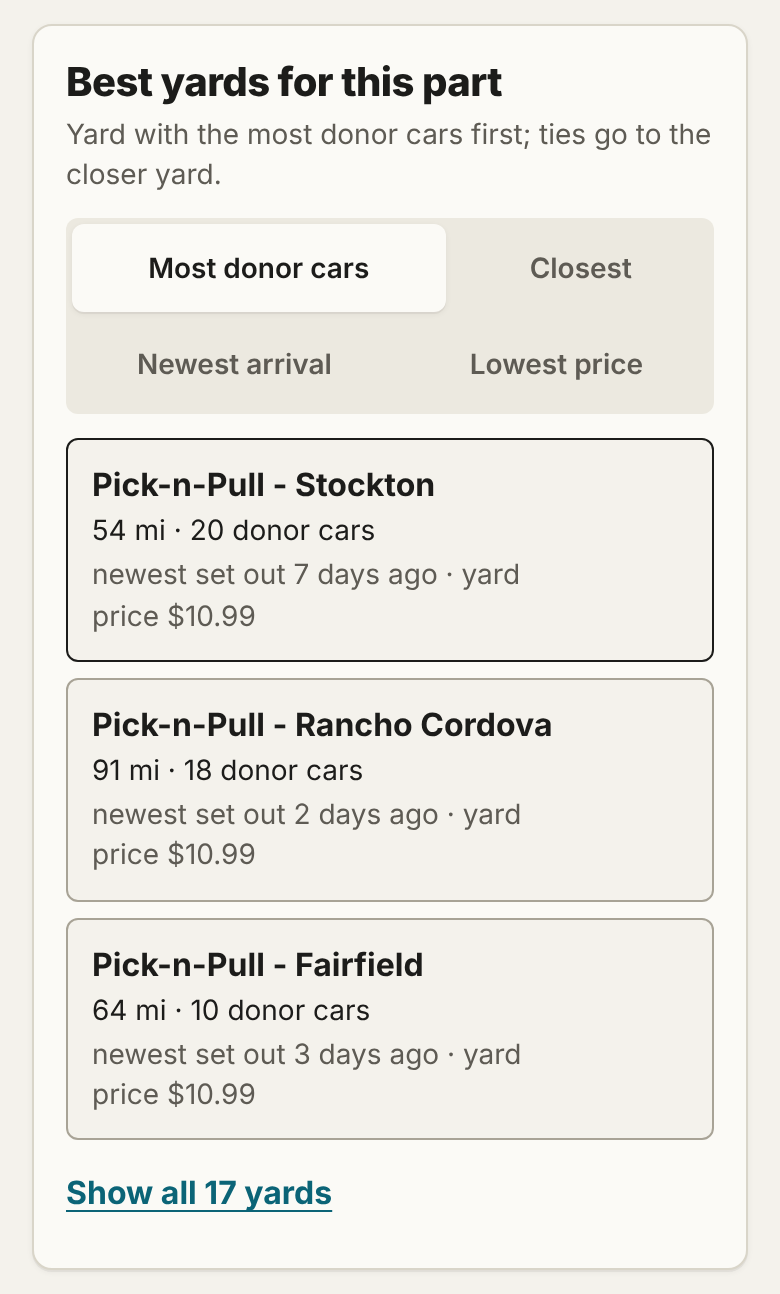
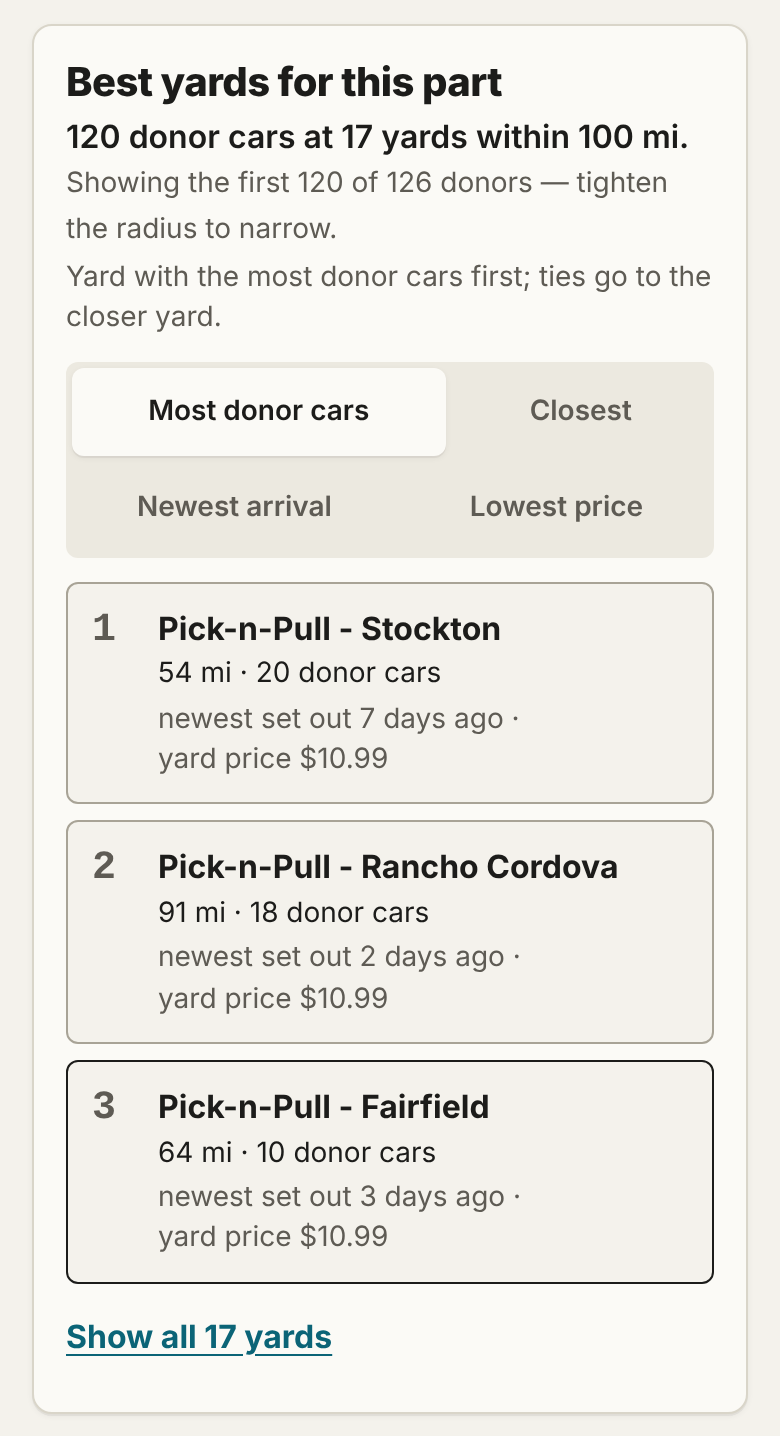
web: Best yards card headline (N donor cars at Y yards within R mi, the list's cap line when capped) and rank numerals; tests: headline and ranks in the count proof, a capped search, layout screens
Claude-Session: https://claude.ai/code/session_01LsgNuWEh1vdaDCtdP1jxMM

diff --git a/docs/app.js b/docs/app.js
@@ -10242,12 +10242,12 @@ function pfPlanItems(rows) {
   });
 }
 /** Start a card for this render: rows = exactly the rows the list renders. */
-function pfPlanStart(rows, s, radius, variants, famId) {
+function pfPlanStart(rows, s, radius, variants, famId, total) {
   const key = [pfCat && pfCat.id, s.year, s.make, s.model, famId || '', radius || ''].join('|');
   if (pfPlanView.key !== key) pfPlanView = { key, order: 'most', yard: '', all: false };
   const w = pfGenWindow(s.make, s.model, s.year);
   pfPlan = {
-    rows, variants, radius, perEach: !!(pfCat && pfCat.perEach),
+    rows, variants, radius, total: Math.max(total || 0, rows.length), perEach: !!(pfCat && pfCat.perEach),
     ctx: { make: s.make, model: s.model, year: s.year, yrMin: w ? w[0] : null, yrMax: w ? w[1] : null,
       lat: activeZipCoords ? activeZipCoords.lat : null, lng: activeZipCoords ? activeZipCoords.lng : null,
       radiusMi: radius || null, where: 'parts' },
@@ -10268,26 +10268,33 @@ function pfPlanBodyHtml() {
       .map(([k, l]) => `<button type="button" class="pf-plan-chip" data-order="${k}" aria-pressed="${pfPlanView.order === k}">${l}</button>`).join('')}</div>`
     : '';
   const now = Date.now();
-  const row = (y) => {
+  const row = (y, i) => {
     const facts = [y.d != null ? `${Math.round(y.d)} mi` : '', `${y.n.toLocaleString()} donor car${y.n === 1 ? '' : 's'}`,
       y.nCheck ? `<span title="These donors carry an “if equipped” line: check the car has it before you pull">${y.nCheck.toLocaleString()} to check first</span>` : ''].filter(Boolean);
     const set = pfPlanSetOutText(y.newestMs, now);
-    const price = y.price != null ? `yard price${pfPlan.perEach ? ' from' : ''} $${y.price.toFixed(2)}${pfPlan.perEach ? ' each' : ''}` : '';
+    const price = y.price != null ? `yard price${pfPlan.perEach ? ' from' : ''} $${y.price.toFixed(2)}${pfPlan.perEach ? ' each' : ''}` : '';
     const more = [set, price ? `<span title="From the yard’s own published price list">${price}</span>` : '',
       y.fast ? `<span class="lot-fast" title="${escapeHtml(y.fastNote)}">leaves fast here</span>` : ''].filter(Boolean);
     const held = y.held ? yardListChipHtml(y.yard) : '';
     return `<li><button type="button" class="pf-plan-yard${y.held ? ' pf-plan-held' : ''}" data-yard="${escapeHtml(y.yard)}" aria-pressed="${pfPlanView.yard === y.yard}">`
+      + `<span class="pf-plan-rank" aria-hidden="true">${i + 1}</span><span class="pf-plan-main">`
       + `<span class="pf-plan-name">${escapeHtml(y.yard)}</span>`
       + `<span class="pf-plan-facts">${facts.join(' &middot; ')}</span>`
       + (more.length ? `<span class="pf-plan-facts pf-plan-more">${more.join(' &middot; ')}</span>` : '')
       + (held ? `<span class="pf-plan-badge">${held}</span>` : '')
-      + '</button></li>';
+      + '</span></button></li>';
   };
+  // The at-a-glance line: the same shown rows. At the list's row cap it says
+  // so in the list's own words (N is then not every donor in range).
+  const nRows = shown.length;
+  const capNote = pfPlan.total > pfPlan.rows.length
+    ? ` <span class="pf-plan-cap">Showing the first ${pfPlan.rows.length} of ${pfPlan.total.toLocaleString()} donors — tighten the radius to narrow.</span>` : '';
+  const headline = `<p class="pf-plan-headline">${nRows.toLocaleString()} donor car${nRows === 1 ? '' : 's'} at ${yards.length.toLocaleString()} yard${yards.length === 1 ? '' : 's'} ${pfPlan.radius ? `within ${pfPlan.radius} mi` : 'in range'}.${capNote}</p>`;
   const list = pfPlanView.all ? yards : yards.slice(0, PF_PLAN_TOP);
   const toggle = yards.length > PF_PLAN_TOP
     ? `<button type="button" class="linklike pf-plan-all">${pfPlanView.all ? `Show the top ${PF_PLAN_TOP}` : `Show all ${yards.length.toLocaleString()} yards`}</button>`
     : '';
-  return title + `<p class="pf-plan-rule">${escapeHtml(pfPlanRuleText(pfPlanView.order, anyHeld))}</p>` + chips
+  return title + headline + `<p class="pf-plan-rule">${escapeHtml(pfPlanRuleText(pfPlanView.order, anyHeld))}</p>` + chips
     + `<ol class="pf-plan-yards">${list.map(row).join('')}</ol>` + toggle;
 }
 /** The "Showing <yard> only" bar above the rows, and which rows show. */
@@ -10741,7 +10748,7 @@ function pfRunSearch() {
   }
   const head = `<div class="pf-results-head"><strong>${rows.length.toLocaleString()} donor car${rows.length === 1 ? '' : 's'} in range</strong> ${rows.length === 1 ? 'It carries' : 'They carry'} ${/s$/.test(pfCat.label) ? '' : 'a '}fitting ${escapeHtml(pfCat.label.toLowerCase())} for a ${s.year} ${escapeHtml(s.make)} ${escapeHtml(s.model)}. ${pfSort === 'new' ? 'Newest arrivals first' : 'Nearest first, then confidence'}. Yards track cars, not parts left on them — a long-sitting donor may be picked over.</div>${(!unlocked && !pfCat.noValue) ? proBoxHtml('See what the same used part goes for online', 'pf-value', '', 'pf-pro-box') : ''}`
     // Best yards for this part: the rows rendered below, by yard.
-    + pfPlanStart(rows.slice(0, CAP), s, radius, quoteVariants, pfChosenFam)
+    + pfPlanStart(rows.slice(0, CAP), s, radius, quoteVariants, pfChosenFam, rows.length)
     + pfWatchHtml(s, true)
     + pfSortRowHtml()
     + pfVonlyRowHtml(nVer, rows.length - nVer, pfCat.id === 'engine-assembly' ? 'engine' : 'fit', nSame)

diff --git a/docs/styles.css b/docs/styles.css
@@ -2947,8 +2947,12 @@ a { color: var(--accent); }
 .pf-plan-chip { flex: 1 1 auto; min-height: var(--tap); padding: 0 var(--s3); border: 0; border-radius: var(--r-sm); background: transparent; color: var(--text-dim); font: 600 var(--t-sm)/1.2 var(--font-ui); cursor: pointer; }
 .pf-plan-chip[aria-pressed="true"] { background: var(--surface); color: var(--text); box-shadow: var(--shadow-card); }
 .pf-plan-yards { list-style: none; margin: var(--s3) 0 0; padding: 0; display: flex; flex-direction: column; gap: var(--s2); }
+.pf-plan-headline { margin: var(--s1) 0 0; font: 600 var(--t-md)/1.4 var(--font-ui); color: var(--text); }
+.pf-plan-cap { font-weight: 400; font-size: var(--t-sm); color: var(--text-dim); }
+.pf-plan-rank { flex: none; min-width: 1.25em; padding-top: 1px; font: 800 var(--t-lg)/1.1 var(--font-mono); color: var(--text-dim); text-align: left; }
+.pf-plan-main { display: flex; flex-direction: column; align-items: flex-start; gap: 2px; flex: 1 1 auto; min-width: 0; }
 .pf-plan-yard {
-  display: flex; flex-direction: column; align-items: flex-start; gap: 2px; width: 100%; min-height: var(--tap);
+  display: flex; flex-direction: row; align-items: flex-start; gap: var(--s2); width: 100%; min-height: var(--tap);
   padding: var(--s3); text-align: left; border: 1px solid var(--border-dark); border-radius: var(--r-sm);
   background: var(--bg); color: var(--text); font: inherit; cursor: pointer;
 }

diff --git a/ops/design.md b/ops/design.md
@@ -537,6 +537,12 @@ forecast half (`docs/forecast.js`, `YSForecast`) is another builder's.
   whose list has stopped changing (`yardListStale`: stale OR frozen) go
   after all others in every order and carry the app's "List unchanged since"
   badge (`yardListChipHtml`); their donors stay in the list.
+- **Headline + ranks (hub review, same day):** under the title, "N donor
+  cars at Y yards within R mi." from the same shown rows (singulars); when
+  the list is at its 120-row cap it adds the list's own line "Showing the
+  first 120 of T donors — tighten the radius to narrow." Each yard row
+  starts with a plain rank numeral in the current order (held yards keep
+  their numbers at the end).
 - **UI:** top 3 yards, "Show all N yards" toggles. One yard: no chips. No
   donors: the card still shows "No donor cars within R mi right now." (the
   list's own `.pf-empty` stays above it). Tapping a yard hides other yards'
